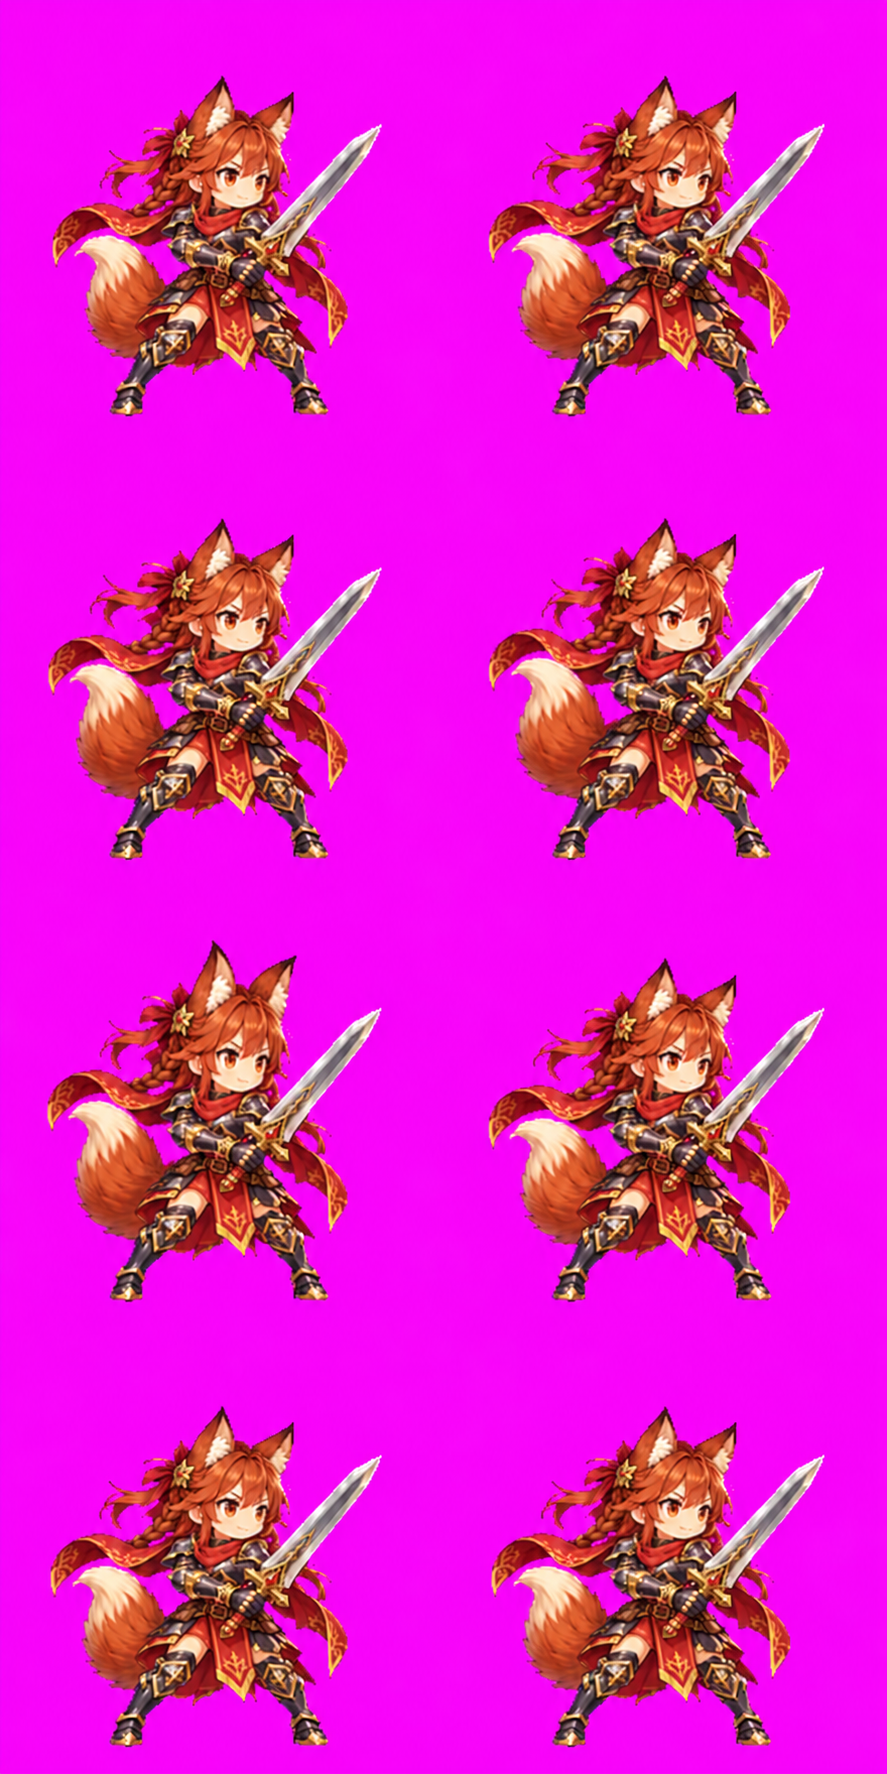
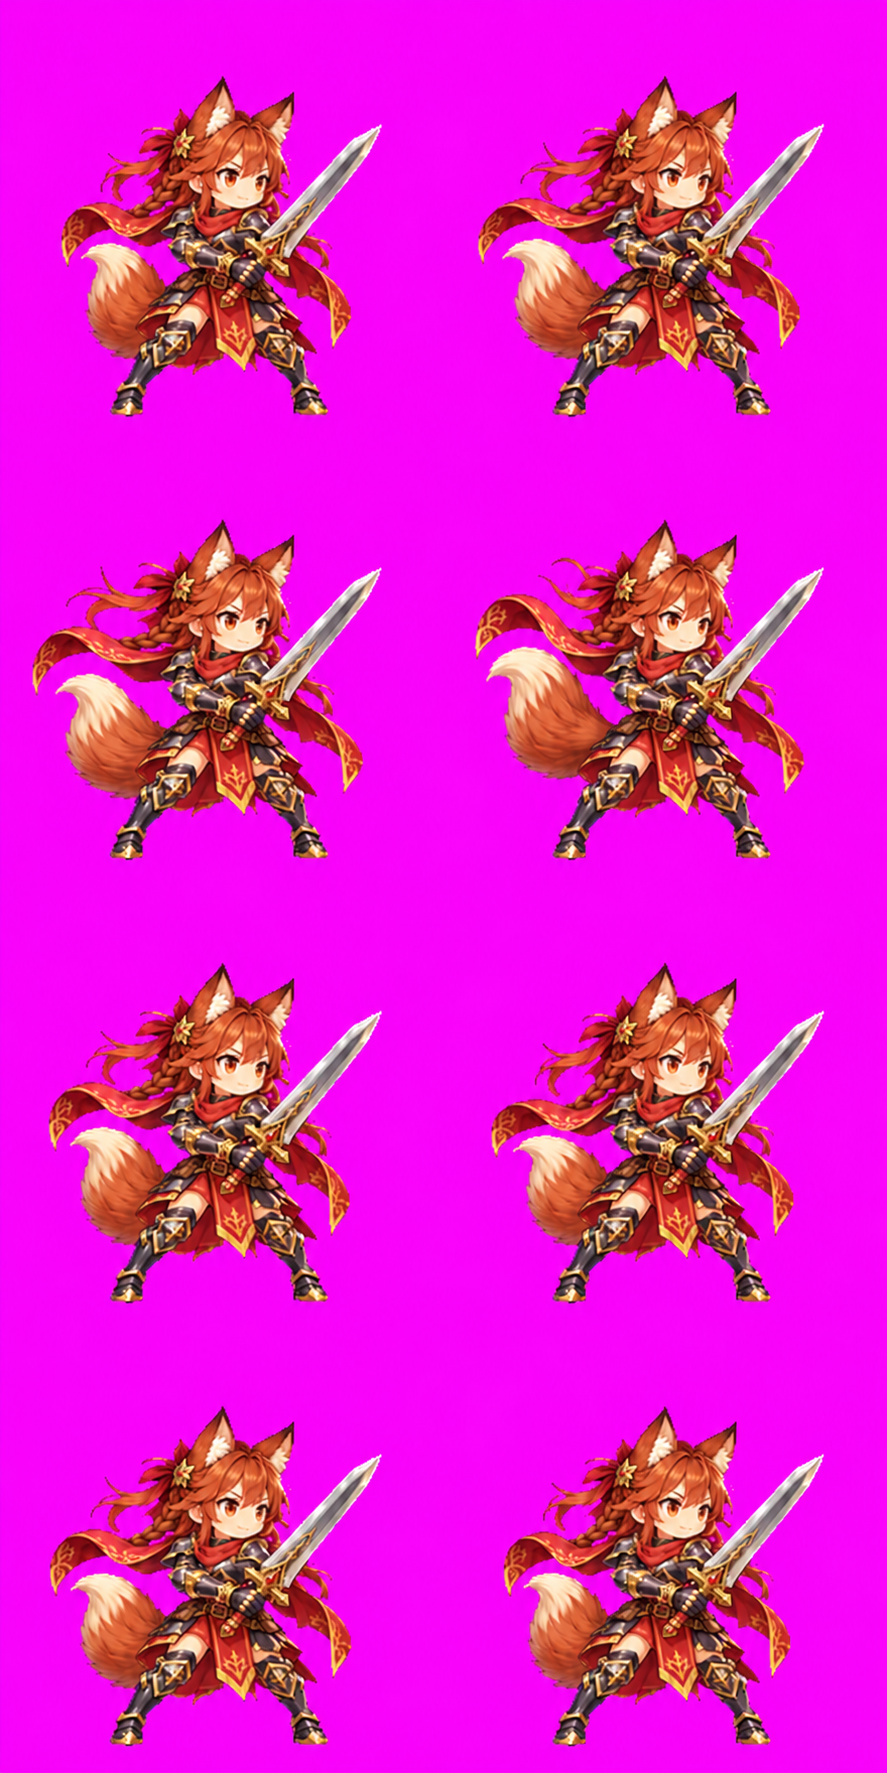
combat(mika): form-2 cleave leaves a burning cut on the ground, form-3 long-grip glaive sweep, no aura wisps in front of her face on the dash, steady ears in the form-2 idle

diff --git a/src/forms-mika.js b/src/forms-mika.js
@@ -26,8 +26,8 @@ mikaFlameRage=function(raw,onRelease=()=>{}){
 let mikaSlashForm=0;
 const mikaStarUltimate=()=>formOriginalUltimate();
 const mikaStarAttack=form=>async(raw,options)=>{
-  mikaSlashForm=form;
-  try{return await formOriginalAttack('hero',raw,options);}finally{mikaSlashForm=0;}
+  mikaSlashForm=form;mikaSlashCalls=0;mikaSlashOrder=MIKA_SLASH_FIRST;mikaSlashShorten=form===3?mikaGlaiveShortening():0;
+  try{return await formOriginalAttack('hero',raw,options);}finally{mikaSlashForm=0;mikaSlashShorten=0;}
 };
 HERO_KITS.fire={forms:{
   2:{ultimate:mikaStarUltimate,attack:mikaStarAttack(2)},
@@ -163,8 +163,10 @@ async function mikaLongCleave(raw,onRelease){
     await at(CHOP+110);if(arc)mikaFxFrame(arc.node,'arc2',1);
     await at(HIT);root.dataset.ragePhase='impact';root.dataset.rageHit='1';setSpriteFrame('hero','skill',3);
     result=mikaContact(raw,onRelease,pending);
-    const line=mikaGrip(2,3);
-    mikaBurst('impact2',{x:foe.x,y:line.y},Math.min($('scene').clientWidth*.8,foe.width*2.1),pending,{hold:1.1});
+    // The cleave scorches the floor: a burning cut along the ground through the foe's feet, as the
+    // follow-through drives the blade down (the cut's line is drawn at 53% of its cell's height).
+    const cut=Math.min($('scene').clientWidth*.9,Math.max(foe.width*2.4,150));
+    pending.push(wait(reduced?0:80).then(()=>mikaBurst('impact2',{x:foe.x-foe.width*.1,y:foe.bottom-cut*.03},cut,pending,{hold:1.15,className:'mika-floor-cut'})));
     mikaShake(pending,1);mikaFlash(pending,'cleave');combatV3Camera(1,true,state.boss,pending);
     if(arc){const node=arc.node;pending.push((async()=>{await wait(90);mikaFxFrame(node,'arc2',2);await wait(110);mikaFxFrame(node,'arc2',3);await animate(node,[{opacity:1},{opacity:0}],{duration:220,fill:'forwards'});})().finally(()=>node.remove()));}
     await at(HIT+110);setSpriteFrame('hero','skill',4);root.dataset.ragePhase='follow';
@@ -275,6 +277,39 @@ combatV3Slash=function(point,key,index,ultimate,direction,pending){
     }
     await animate(node,[{opacity:1},{opacity:0}],{duration:120,fill:'forwards'});
   })().finally(()=>node.remove()));
+};
+
+// ---- Six-star basic attack: the long glaive swung from the butt of its shaft -------------------------
+// The shared lunge (combat-v3.js) asks for "attack" frames by role (wind-up, ready, launch, contact,
+// recover, rest) with indices that differ per chain stance. Six-star Mika plays her own "slash" sheet
+// in that order instead: ready with both hands at the shaft's end, the glaive swung back behind her,
+// swept forward low, held out at full reach on contact, carried up past the foe, then settling.
+const MIKA_SLASH_FIRST=[0,1,2,2,3,4],MIKA_SLASH_NEXT=[1,1,2,3,4];
+let mikaSlashCalls=0,mikaSlashOrder=MIKA_SLASH_FIRST,mikaSlashShorten=0;
+const mikaBaseFrame=combatV3Frame,mikaBaseAction=combatV3Action,mikaBasePose=combatV3Pose;
+combatV3Frame=function(side,action,index){
+  if(mikaSlashForm!==3||side!=='hero'||action!=='attack')return mikaBaseFrame(side,action,index);
+  // Index 5 is always the rest after a cut; the next cut of a multi-hit chain starts from wind-up.
+  if(index===5){mikaSlashCalls=0;mikaSlashOrder=MIKA_SLASH_NEXT;return mikaBaseFrame(side,'slash',5);}
+  return mikaBaseFrame(side,'slash',mikaSlashOrder[Math.min(mikaSlashCalls++,mikaSlashOrder.length-1)]);
+};
+combatV3Action=function(side,action,duration){
+  return mikaBaseAction(side,mikaSlashForm===3&&side==='hero'&&action==='attack'?'slash':action,duration);
+};
+// The glaive reaches far: the lunge stops short, so the crescent (not her body) meets the foe.
+function mikaGlaiveShortening(){
+  const sheet=mikaSheet('slash3')&&ART.heroForms?.fire?.['3']?.slash;if(!sheet)return 0;
+  const from=combatV3Point('hero'),to=combatV3Point('enemy'),travel=Math.max(0,Math.abs(to.x-from.x)-from.width*.43);
+  // Contact pose: the crescent's middle sits 0.40 of the drawn cell right of its centre.
+  const reach=from.width*(sheet.scale||1)*.40,foe=mikaFoeBody();
+  return Math.max(0,Math.min(travel,travel-(foe.x-from.x-reach)));
+}
+combatV3Pose=function(node,transform,...rest){
+  if(mikaSlashShorten&&node===actor('hero')){
+    const m=/^translate\((-?[\d.]+)px,/.exec(transform);
+    if(m&&+m[1]>0)transform=transform.replace(m[0],`translate(${Math.max(0,+m[1]-mikaSlashShorten)}px,`);
+  }
+  return mikaBasePose(node,transform,...rest);
 };
 
 // ---- Six-star departure: a fox-like dash ----------------------------------------------------------

diff --git a/src/forms-mika.css b/src/forms-mika.css
@@ -15,4 +15,6 @@
 .scene .hero-actor .mika-tail-flare{position:absolute;left:44%;top:52%;width:128%;aspect-ratio:1;translate:-50% -50%;z-index:0;pointer-events:none;background-repeat:no-repeat;filter:drop-shadow(0 0 10px #ff9a3caa)}
 /* The departure fox runs clear of the dash's streaming tails, a stride behind and in front of them. */
 .scene .hero-actor[data-hero-element="fire"][data-hero-form="3"] .depart-fox{left:-58%;z-index:2}
+/* Six-star dash: the standing aura's flame wisps would float in front of her face as she runs. */
+.scene .hero-actor[data-hero-element="fire"][data-hero-form="3"][data-departing] .combat-form-aura{opacity:0!important;transition:opacity .15s}
 body.reduced-motion .mika-tail-flare,body.reduced-motion .mika-fx,body.reduced-motion .mika-fox-spirit{display:none}

diff --git a/assets/heroes/forms/fire/tools/register_skill.py b/assets/heroes/forms/fire/tools/register_skill.py
@@ -2,7 +2,7 @@
 import json
 from pathlib import Path
 ROOT = Path(__file__).resolve().parents[1]
-SHEETS = [(2, "skill", 100), (3, "skill", 100), (3, "dash", 90)]
+SHEETS = [(2, "skill", 100), (3, "skill", 100), (3, "dash", 90), (3, "slash", 100)]
 p = ROOT / "forms.json"
 d = json.loads(p.read_text(encoding="utf-8"))
 for form, action, ms in SHEETS:
